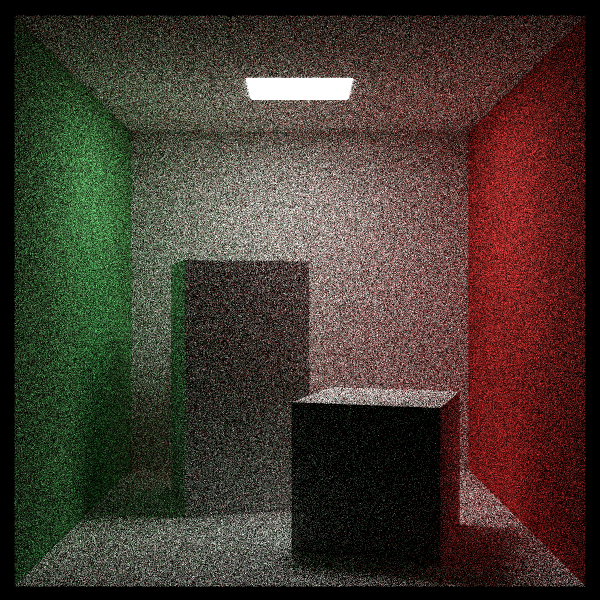
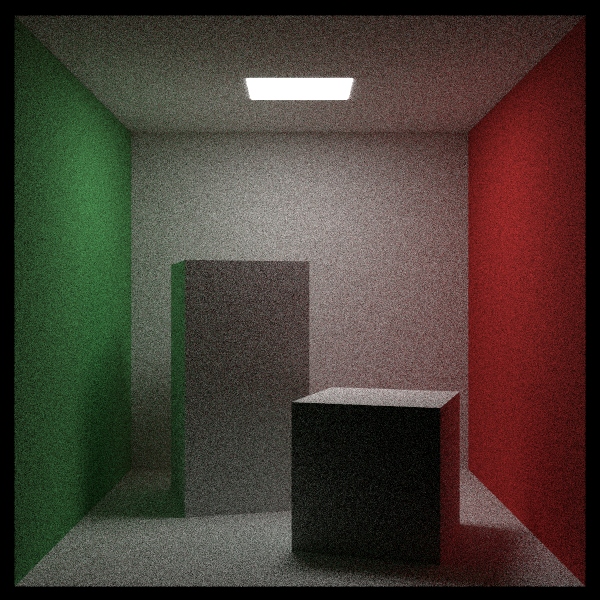
fixed small issues & ONB struct

diff --git a/src/material.rs b/src/material.rs
@@ -1,6 +1,6 @@
 #[path = "texture.rs"] mod texture;
 pub use texture::*;
-use std::sync::{Arc, Mutex};
+use std::{sync::{Arc, Mutex}, fs::DirEntry};
 
 
 
@@ -36,6 +36,32 @@ impl HitRecord {
         self.v = uv.1;
     }
 }
+
+
+#[derive(Clone)]
+pub struct ONB {
+    pub u: Vec3,
+    pub v: Vec3,
+    pub w: Vec3
+}
+
+impl ONB {
+    pub fn build_from_w(n: Vec3) -> Self {
+        let w = n.normalize();
+        let a = if w.x.abs() > 0.9 { Vec3::new(0., 1., 0.) } else { Vec3::new(1., 0., 0.) };
+        let v = w.cross(a).normalize();
+        let u = w.cross(v);
+        Self {
+            u: u,
+            v: v,
+            w: w
+        }
+    }
+    pub fn local(&self, a: Vec3) -> Vec3 {
+        self.u * a.x + self.v * a.y + self.w * a.z
+    }
+}
+
 
 
 #[derive(Clone)]
@@ -80,21 +106,42 @@ impl Material {
         }
     }
 
+    
+    fn scatter_lambertian(&self, albedo: &Texture, r_in: Ray, attenuation: &mut Rgb, rec: HitRecord, scattered: &mut Ray, pdf: &mut f32, atlas: &Arc<Mutex<ImageTextureAtlas>>) -> bool {
+        let uvw = ONB::build_from_w(rec.normal);
+        let dir = uvw.local(random_cosin_direction());
+        scattered.reset(rec.point, dir.normalize(), r_in.time);
+        attenuation.set_to(albedo.get_color(rec.u, rec.v, rec.point, atlas));
+        *pdf = uvw.w.dot(scattered.direction) / PI;
+        return true;
+    }
+    // fn scatter_lambertian(&self, albedo: &Texture, r_in: Ray, attenuation: &mut Rgb, rec: HitRecord, scattered: &mut Ray, pdf: &mut f32, atlas: &Arc<Mutex<ImageTextureAtlas>>) -> bool {
+    //     let mut scatter_dir = rec.normal + random_unit_vec3();
+    //     if scatter_dir.near_zero() {
+    //         scatter_dir = rec.normal;
+    //     }
+        
+    //     scattered.reset(rec.point, scatter_dir.normalize(), r_in.time);
+    //     attenuation.set_to(albedo.get_color(rec.u, rec.v, rec.point, atlas));
+    //     *pdf = rec.normal.dot(scattered.direction) / PI;
+    //     return true;
+    // }
+    // fn scatter_lambertian(&self, albedo: &Texture, r_in: Ray, attenuation: &mut Rgb, rec: HitRecord, scattered: &mut Ray, pdf: &mut f32, atlas: &Arc<Mutex<ImageTextureAtlas>>) -> bool {
+    //     let scatter_dir = random_in_hemisphere(rec.normal);
+    //     scattered.reset(rec.point, scatter_dir.normalize(), r_in.time);
+    //     attenuation.set_to(albedo.get_color(rec.u, rec.v, rec.point, atlas));
+    //     *pdf = 0.5 / PI;
+    //     return true;
+    // }
+    fn scattering_pdf_lambertian(&self, r_in: Ray, rec: HitRecord, scattered: &mut Ray) -> f32 {
+        let cosin = rec.normal.dot(scattered.direction.normalize());
+        return if cosin < 0.0 { 0.0 } else { cosin / PI };
+    }
+
     fn reflectance(&self, cosin: f32, ref_idx: f32) -> f32 {
         let mut r0 = (1.0 - ref_idx) / (1.0 + ref_idx);
         r0 *= r0;
         return r0 + (1.0 - r0) * (1.0 - cosin).powi(5);
-    }
-    fn scatter_lambertian(&self, albedo: &Texture, r_in: Ray, attenuation: &mut Rgb, rec: HitRecord, scattered: &mut Ray, atlas: &Arc<Mutex<ImageTextureAtlas>>) -> bool {
-        let mut scatter_dir = rec.normal + random_unit_vec3();
-
-        if scatter_dir.near_zero() {
-            scatter_dir = rec.normal;
-        }
-
-        scattered.reset(rec.point, scatter_dir, r_in.time);
-        attenuation.set_to(albedo.get_color(rec.u, rec.v, rec.point, atlas));
-        return true;
     }
     fn scatter_glossy(&self, color: &Rgb, fuzz: &f32, r_in: Ray, attenuation: &mut Rgb, rec: HitRecord, scattered: &mut Ray) -> bool {
         let reflected = reflect(r_in.direction.normalize(), rec.normal);
@@ -102,6 +149,7 @@ impl Material {
         attenuation.set_to(*color);
         return scattered.direction.dot(rec.normal) > 0.0;
     }
+    
     fn scatter_dielectric(&self, refraction_index: &f32, r_in: Ray, attenuation: &mut Rgb, rec: HitRecord, scattered: &mut Ray) -> bool {
         attenuation.set_to(Vec3::new(1.0, 1.0, 1.0));
         let refraction_ratio = if rec.front_face { 1.0 / *refraction_index } else { *refraction_index };
@@ -123,31 +171,37 @@ impl Material {
         scattered.reset(rec.point, dir, r_in.time);
         return true;
     }
+
     fn scatter_isotropic(&self, albedo: &Texture, r_in: Ray, attenuation: &mut Rgb, rec: HitRecord, scattered: &mut Ray, atlas: &Arc<Mutex<ImageTextureAtlas>>) -> bool {
         scattered.reset(rec.point, random_in_unit_sphere(), r_in.time);
         attenuation.set_to(albedo.get_color(rec.u, rec.v, rec.point, atlas));
         return true;
     }
+
     fn scatter_emissive(&self, _r_in: Ray, _attenuation: &mut Rgb, _rec: HitRecord, _scattered: &mut Ray) -> bool {
         return false;
     }
 
-    pub fn scatter(&self, r_in: Ray, attenuation: &mut Rgb, rec: HitRecord, scattered: &mut Ray, atlas: &Arc<Mutex<ImageTextureAtlas>>) -> bool {
+
+    pub fn scatter(&self, r_in: Ray, attenuation: &mut Rgb, rec: HitRecord, scattered: &mut Ray, pdf: &mut f32, atlas: &Arc<Mutex<ImageTextureAtlas>>) -> bool {
         match &self.mat_type {
-            MaterialType::Lambertian(albedo) => self.scatter_lambertian(albedo, r_in, attenuation, rec, scattered, atlas),
+            MaterialType::Lambertian(albedo) => self.scatter_lambertian(albedo, r_in, attenuation, rec, scattered, pdf, atlas),
             MaterialType::Glossy(color, fuzz) => self.scatter_glossy(color, fuzz, r_in, attenuation, rec, scattered),
             MaterialType::Dielectric(refraction_index) => self.scatter_dielectric(refraction_index, r_in, attenuation, rec, scattered),
             MaterialType::Isotropic(albedo) => self.scatter_isotropic(albedo, r_in, attenuation, rec, scattered, atlas),
             MaterialType::Emissive(_albedo) => self.scatter_emissive(r_in, attenuation, rec, scattered)
         }
     }
+    pub fn scattering_pdf(&self, r_in: Ray, rec: HitRecord, scattered: &mut Ray) -> f32 {
+        match &self.mat_type {
+            MaterialType::Lambertian(albedo) => self.scattering_pdf_lambertian(r_in, rec, scattered),
+            _ => 0.0
+        }
+    }
     pub fn emitted(&self, u: f32, v: f32, point: Point3, atlas: &Arc<Mutex<ImageTextureAtlas>>) -> Rgb {
         match &self.mat_type {
-            MaterialType::Lambertian(_albedo) => Rgb::origin(),
-            MaterialType::Glossy(_color, _fuzz) => Rgb::origin(),
-            MaterialType::Dielectric(_refraction_index) => Rgb::origin(),
-            MaterialType::Isotropic(_albedo) => Rgb::origin(),
-            MaterialType::Emissive(albedo) => albedo.get_color(u, v, point, atlas)
+            MaterialType::Emissive(albedo) => albedo.get_color(u, v, point, atlas),
+            _ => Rgb::origin()
         }
     }
 }

diff --git a/src/main.rs b/src/main.rs
@@ -1,7 +1,6 @@
-// use std::sync::Arc;
 #[path = "render.rs"] mod render;
 use render::*;
-
+use macroquad::prelude::{next_frame, clear_background, BLACK, Image, Texture2D, draw_texture_ex, WHITE, DrawTextureParams, Vec2, screen_width, screen_height, Color};
 
 const FILENAME: &str = "out.png";
 
@@ -327,7 +326,7 @@ fn cornell_box() -> (Camera, SceneColliders, Rgb, f32, u32, u32, usize, usize) {
     let aspect_ratio = 1.0;
     let image_width = 600;
     let image_height = (image_width as f32 / aspect_ratio) as u32;
-    let samples_per_pixel = 200;
+    let samples_per_pixel = 1000;
     let max_depth = 200;
     let background = Rgb::new(0.0, 0.0, 0.0);
 
@@ -352,7 +351,7 @@ fn cornell_box() -> (Camera, SceneColliders, Rgb, f32, u32, u32, usize, usize) {
     let red = Material::lambertian(Texture::solid_color(Rgb::new(0.65, 0.05, 0.05)));
     let white = Material::lambertian(Texture::solid_color(Rgb::new(0.73, 0.73, 0.73)));
     let green = Material::lambertian(Texture::solid_color(Rgb::new(0.12, 0.45, 0.15)));
-    let light = Material::emissive(Rgb::new(30.0, 30.0, 30.0));
+    let light = Material::emissive(Rgb::new(20.0, 20.0, 20.0));
 
     scene.add(Geometry::yzrect(0.0, 555.0, 0.0, 555.0, 555.0, green));
     scene.add(Geometry::yzrect(0.0, 555.0, 0.0, 555.0, 0.0, red));
@@ -442,8 +441,7 @@ fn cornell_pedestal() -> (Camera, SceneColliders, Rgb, f32, u32, u32, usize, usi
     let red = Material::lambertian(Texture::solid_color(Rgb::new(0.65, 0.05, 0.05)));
     let white = Material::lambertian(Texture::solid_color(Rgb::new(0.73, 0.73, 0.73)));
     let green = Material::lambertian(Texture::solid_color(Rgb::new(0.12, 0.45, 0.15)));
-    let light = Material::emissive(Rgb::new(5.0, 5.0, 5.0));
-    let light_powerful = Material::emissive(Rgb::new(60.0, 60.0, 60.0));
+    let light = Material::emissive(Rgb::new(2.0, 2.0, 2.0));
 
     scene.add(Geometry::yzrect(0.0, 555.0, 0.0, 555.0, 555.0, green));
     scene.add(Geometry::yzrect(0.0, 555.0, 0.0, 555.0, 0.0, red));
@@ -452,7 +450,7 @@ fn cornell_pedestal() -> (Camera, SceneColliders, Rgb, f32, u32, u32, usize, usi
     scene.add(Geometry::xzrect(0.0, 555.0, 0.0, 555.0, 555.0, white.clone()));
     scene.add(Geometry::xyrect(0.0, 555.0, 0.0, 555.0, 555.0, white.clone()));
 
-    scene.add(Geometry::xyrect(113.0, 443.0, 127.0, 432.0, -850.0, light_powerful.clone()));
+    // scene.add(Geometry::xyrect(113.0, 443.0, 127.0, 432.0, -850.0, light_powerful.clone()));
 
     scene.add(Geometry::instance_translation(Geometry::instance_rotation(Geometry::cuboid(Point3::new(0., 0., 0.), Point3::new(125., 125., 125.), white.clone()), Axis::Y, 45.0), Vec3::new(188., 0., 178.)));
     
@@ -508,7 +506,7 @@ fn final_scene() -> (Camera, SceneColliders, Rgb, f32, u32, u32, usize, usize) {
     }
     scene.add(Geometry::bvh_node(&boxes, 0.0, 1.0, 0, boxes.len()));
     
-    let light = Material::emissive(Rgb::new(10.0, 10.0, 10.0));
+    let light = Material::emissive(Rgb::new(7.0, 7.0, 7.0));
     scene.add(Geometry::xzrect(123.0, 423.0, 147.0, 412.0, 554.0, light.clone()));
 
     scene.add(Geometry::sphere(Point3::new(260.0, 150.0, 45.0), 50.0, Material::dielectric(1.5)));
@@ -539,6 +537,8 @@ fn final_scene() -> (Camera, SceneColliders, Rgb, f32, u32, u32, usize, usize) {
 }
 
 
+
+
 fn main() {
     let (cam, scene, background, _aspect_ratio, img_width, img_height, samples_per_pixel, max_depth) = cornell_box();
     let imgbuf = render_multi(
@@ -553,3 +553,4 @@ fn main() {
 
     imgbuf.save(&format!("output/{}", FILENAME)).unwrap();
 }
+

diff --git a/src/render.rs b/src/render.rs
@@ -1,13 +1,14 @@
 use image::{self, ImageBuffer};
 use indicatif::{ProgressBar, ProgressStyle};
 use std::time::SystemTime;
-use std::sync::{Arc, Mutex};
+use std::sync::Mutex;
 use linya::{Bar, Progress};
 use num_cpus;
 use math::round::half_up;
 #[path = "camera.rs"] mod camera;
 pub use camera::*;
 use rayon::prelude::*;
+
 
 
 
@@ -22,8 +23,9 @@ pub fn ray_color(r: Ray, background: Rgb, scene: &SceneColliders, depth: usize) 
             let mut scattered = Ray::new(Vec3::origin(), Vec3::origin(), 0.0);
             let mut attenuation = Vec3::origin();
             let emitted = rec.material.emitted(rec.u, rec.v, rec.point, &scene.atlas);
-            match rec.material.scatter(r, &mut attenuation, rec.clone(), &mut scattered, &scene.atlas) {
-                true => return emitted + attenuation * ray_color(scattered, background, scene, depth - 1),
+            let mut pdf: f32 = 0.0;
+            match rec.material.scatter(r, &mut attenuation, rec.clone(), &mut scattered, &mut pdf, &scene.atlas) {
+                true => return emitted + attenuation * rec.material.scattering_pdf(r, rec.clone(), &mut scattered) * ray_color(scattered, background, scene, depth - 1) / pdf,
                 false => return emitted
             }
         },
@@ -99,11 +101,11 @@ pub fn render_worker(background: Rgb, img_width: u32, img_height: u32, samples_p
             g = (scale * g).sqrt();
             b = (scale * b).sqrt();
             
-            let ir = 256.0 * clamp(r, 0.0, 0.999);
-            let ig = 256.0 * clamp(g, 0.0, 0.999);
-            let ib = 256.0 * clamp(b, 0.0, 0.999);
+            let ir = 256.0 * clamp(r / n_threads as f32, 0.0, 0.999);
+            let ig = 256.0 * clamp(g / n_threads as f32, 0.0, 0.999);
+            let ib = 256.0 * clamp(b / n_threads as f32, 0.0, 0.999);
 
-            subimage.put_pixel(i, img_height - j - 1, image::Rgb([ir / (n_threads - 1) as f32, ig / (n_threads - 1) as f32, ib / (n_threads - 1) as f32]));
+            subimage.put_pixel(i, img_height - j - 1, image::Rgb([ir, ig, ib]));
         }
         progress.lock().unwrap().inc_and_draw(bar, 1);
     }
@@ -118,7 +120,7 @@ pub fn render_multi(scene: SceneColliders, cam: Camera, background: Rgb, max_dep
     let global_buf: Mutex<ImageBuffer<image::Rgb<f32>, Vec<f32>>> = Mutex::new(ImageBuffer::new(img_width, img_height));
     let time_start = SystemTime::now();
     let progress = Mutex::new(Progress::new());
-
+    
     (0..n_threads).into_par_iter().for_each(|i| {
         let bar = progress.lock().unwrap().bar(img_height as usize, format!("Rendering [Thread {}]", i + 1));
         let subimage = render_worker(
@@ -136,17 +138,17 @@ pub fn render_multi(scene: SceneColliders, cam: Camera, background: Rgb, max_dep
             }
         }
     });
-
+    
     let imgbuf_f32 = global_buf.lock().unwrap().clone();
     let mut finalbuf = ImageBuffer::new(img_width, img_height);
-
+    
     for (x, y, pixel) in finalbuf.enumerate_pixels_mut() {
         let pix = imgbuf_f32.get_pixel(x, y);
         *pixel = image::Rgb([pix.0[0] as u8, pix.0[1] as u8, pix.0[2] as u8]);
     }
-
+    
     let render_time = SystemTime::now().duration_since(time_start).unwrap().as_secs();
     println!("\nRendered in {}s ({}m)", render_time, half_up(render_time as f64 / 60.0, 2));
-
+    
     return finalbuf;
 }

diff --git a/src/vec3.rs b/src/vec3.rs
@@ -226,6 +226,17 @@ pub fn random_in_unit_disk() -> Vec3 {
     }
 }
 
+pub fn random_cosin_direction() -> Vec3 {
+    let r1 = random();
+    let r2 = random();
+    let z = (1.0 - r2).sqrt();
+
+    let phi = TAU * r1;
+    let x = phi.cos() * r2.sqrt();
+    let y = phi.sin() * r2.sqrt();
+    Vec3::new(x, y, z)
+}
+
 pub fn reflect(v: Vec3, n: Vec3) -> Vec3 {
     v - n * 2.0 * v.dot(n)
 }

diff --git a/README.md b/README.md
@@ -1,4 +1,8 @@
-An implementation of Peter Shirley's Ray Tracing in One Weekend series, with some additional features.
+# Rust Raytracer
+
+## Description
+
+A Rusty implementation of Peter Shirley's Ray Tracing in One Weekend series, with some additional features.
 
 Peter Shirley's Ray Tracing in One Weekend:
 
@@ -6,8 +10,8 @@ Peter Shirley's Ray Tracing in One Weekend:
 2. Ray Tracing: The Next Week | https://raytracing.github.io/books/RayTracingTheNextWeek.html
 3. Ray Tracing: The Rest of Your Life | https://raytracing.github.io/books/RayTracingTheRestOfYourLife.html
 
-Additional Features include:
+### Additional Features:
 
-- Multithreading
-- Ray-triangle intersection & triangle meshes
-- Loading triangle meshes from the wavefront .obj file format
+- [x] Process based parallelism
+- [x] Ray-triangle intersection & triangle meshes
+- [x] Loading triangle meshes from the wavefront .obj file format
